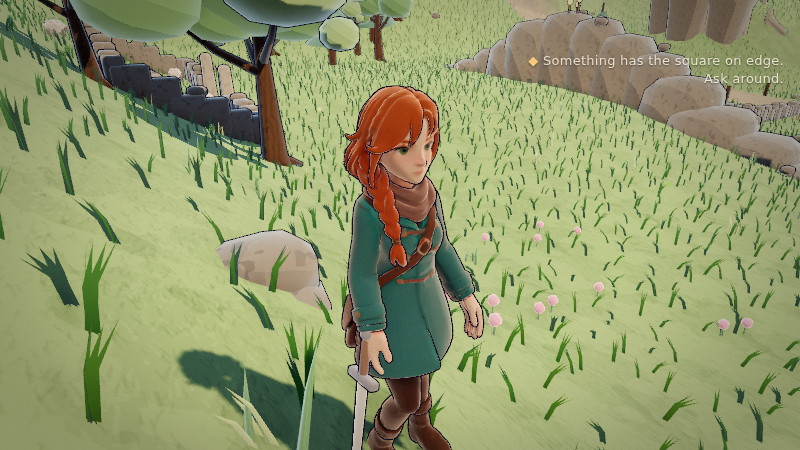
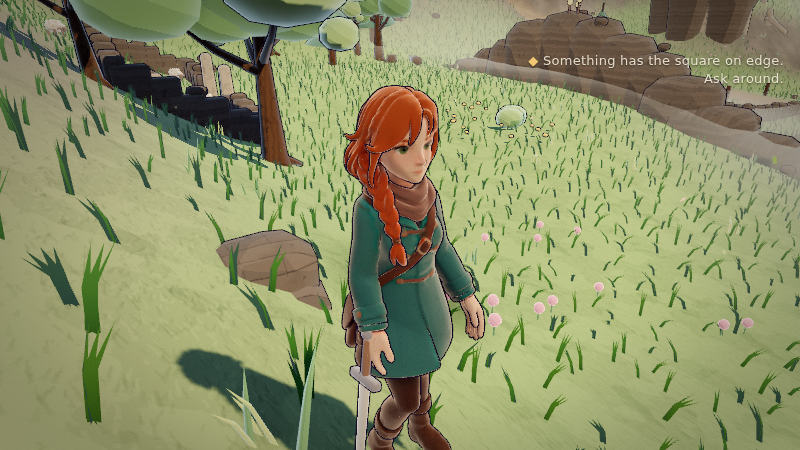
README frames from the current build
Claude-Session: https://claude.ai/code/session_01K8GZiy4fAPRgpAZs7S4NeY

diff --git a/README.md b/README.md
@@ -7,8 +7,9 @@ it, a valley to cross, and one thing to do.**
 | | |
 |---|---|
 | ![title](docs/shots/title.png) | ![valley](docs/shots/valley.png) |
-| ![plaza](docs/shots/plaza-talk.png) | ![meadow](docs/shots/meadow-close.png) |
-| ![roofs](docs/shots/roofs.png) | ![dusk](docs/shots/dusk-valley.png) |
+| ![plaza](docs/shots/plaza.png) | ![meadow](docs/shots/meadow-close.png) |
+| ![roofs](docs/shots/roofs.png) | ![pass](docs/shots/pass.png) |
+| ![dusk](docs/shots/dusk-valley.png) | ![ivy](docs/shots/ivy.png) |
 | ![combat](docs/shots/combat.png) | ![beacon](docs/shots/beacon-lit.png) |
 
 The beacon on the north road has been dark three nights. Ask around the square
@@ -30,13 +31,18 @@ they stand in were built here.
   grade, all live-settable (`__look`, `__post`) so looks can be A/B'd in one
   session. The sky is a dome with its own gradient and sun; the far ridges and
   the clouds are painted and sit outside the fog.
-- **A town**: nine buildings with quoins, rafter ends, half-timber braces and
-  dormers; a belltower you can climb; a cellar; a roof route; bunting on
-  festival masts; a fountain with moving water; stalls whose goods come apart.
+- **A town**: nine buildings, each with a stone dado, deep eaves, recessed
+  windows under lintels, a chimney over the ridge; three with a wing, four
+  jettied out over the street on brackets, one faced in ashlar under ivy;
+  shop signs, striped awnings, barrels and crates at the doors; a belltower
+  you can climb; a cellar; a roof route; bunting on festival masts; a
+  fountain with moving water; stalls whose goods come apart.
 - **A valley**: an analytic terrain the runtime and the builder agree on, a
   road that bends, a ford, a ravine, an orchard, a ruin, a stone ring, the
-  pass. Trees with roots and branches. Fifteen thousand instanced grass clumps
-  in the same wind as the bunting and the canopies.
+  pass cut through bedded rock. Trees with roots and branches, bushes at
+  their feet, flower patches, fallen logs. Ten thousand instanced grass
+  clumps in the same wind as the bunting and the canopies. Three rings of
+  mountains behind it, snow on the far two, and mist lying on the low ground.
 - **People**: nine townsfolk, each with a portrait, a gesture that is theirs,
   and a dialogue ladder that changes with the state of the world. Three of them
   run errands round the square and stop when you are near.
